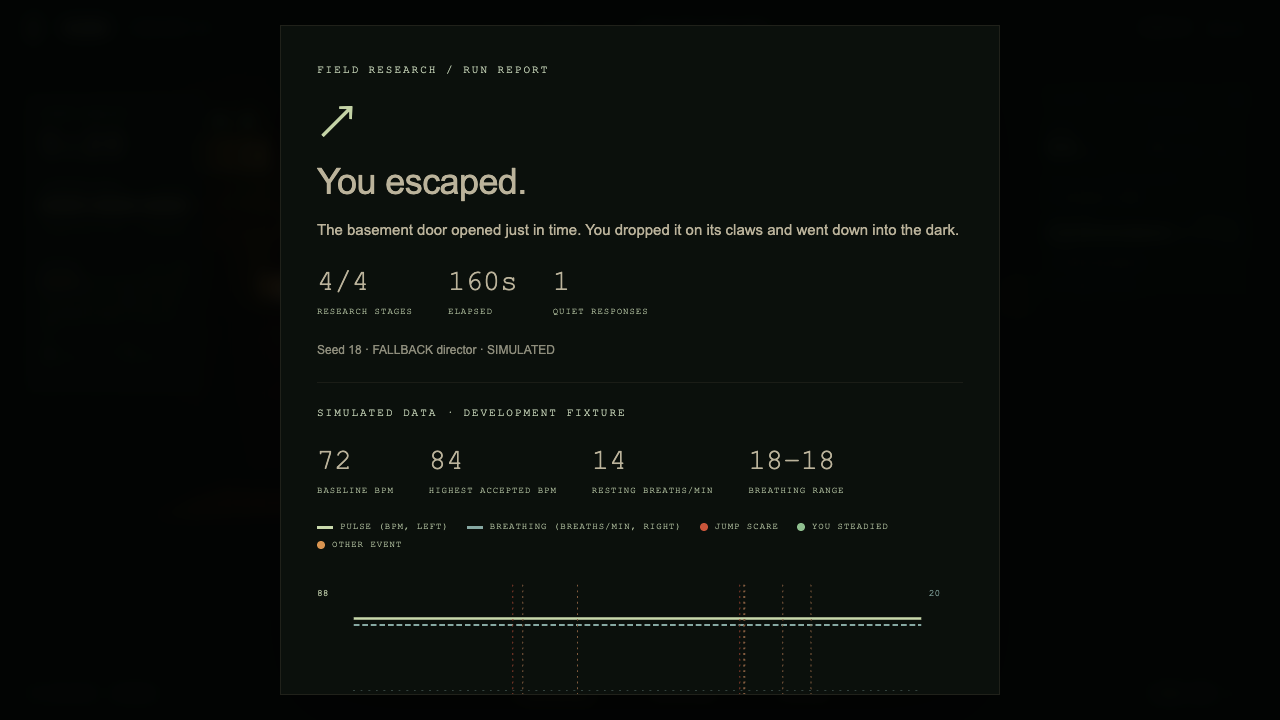
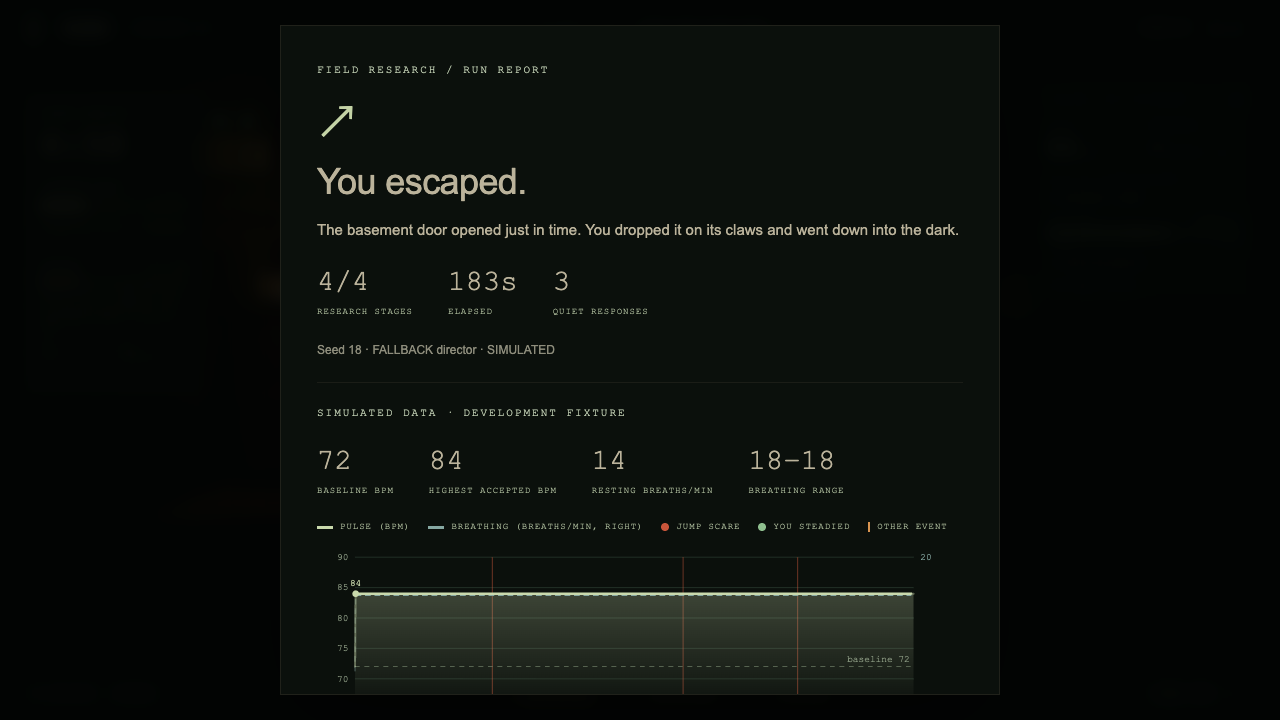
m

diff --git a/src/ui/PulseReport.tsx b/src/ui/PulseReport.tsx
@@ -1,23 +1,26 @@
 import { useState } from 'react';
 import type { PulseReport as Report } from '../report/analysis';
+import { continuousLine, measuredSegment, monotonePath, partialPath, timeTicks, valueAxis, type ChartPoint } from './pulseChart';
 const labels:Record<string,string>={SCARE:'jump scare',BLACKOUT:'blackout',MISTAKE:'machine error',CLOSE_ENCOUNTER:'close encounter',BREACH_WARNING:'breach warning',LURE_SUCCESS:'lure transmission',QUIET:'equipment isolated',POWER_RESTORED:'power restored',RECOVERY:'you steadied · it lost your trail'};
-const PULSE='#c9d9ac',BREATH='#86a8a2',SCARE='#c9553a',CALM='#8fbf8f',EVENT='#d99450',LEFT=38,RIGHT=636,TOP=34,BOTTOM=172;
-/** Draw a line that breaks at gaps, pauses and capture segments. */
-function trace<T extends {gameMs:number;breakBefore?:boolean}>(rows:T[],x:(t:number)=>number,y:(row:T)=>number){
- return rows.map((row,i)=>`${i===0||row.breakBefore?'M':'L'}${x(row.gameMs).toFixed(1)},${y(row).toFixed(1)}`).join(' ');
-}
+const PULSE='#c9d9ac',BREATH='#86a8a2',SCARE='#c9553a',CALM='#8fbf8f',EVENT='#d99450',GRID='#223127',INK='#8d9c84',LEFT=40,RIGHT=628,TOP=16,BOTTOM=176,LANE=196;
+/** Big moments get a line through the chart; everything else is a tick in the event lane. */
+const MAJOR=new Set(['SCARE','RECOVERY']);
 /** Why a run has no chart: the camera was off, or no accepted readings arrived. */
 export type EmptyReason='no-camera'|'no-readings';
 const EMPTY:Record<EmptyReason,string>={'no-camera':'The camera was off for this run, so there was nothing to chart. Enable it before you start to chart your pulse and breathing against the scares.','no-readings':'The camera was on, but no accepted readings arrived during play. Keep your face and upper chest in frame with steady light; readings pause while the camera cannot see you.'};
-export default function PulseReport({report,empty='no-camera'}:{report:Report;empty?:EmptyReason}){
+export default function PulseReport({report,empty='no-camera',durationMs}:{report:Report;empty?:EmptyReason;durationMs?:number}){
  const[focus,setFocus]=useState<string|null>(null);
  if(report.status==='unrecorded')return <section className="pulse-report"><div className="eyebrow">PULSE RECORDING</div><h3>Physiological statistics unrecorded.</h3><p className="small muted">{EMPTY[empty]} Your research results still count.</p></section>;
- const breathing=report.breathing;
- const min=Math.floor(Math.min(report.baselineBpm??70,...report.timeline.map(p=>p.bpm))-4),max=Math.ceil(Math.max(report.baselineBpm??70,...report.timeline.map(p=>p.bpm))+4);
- const bMin=breathing?Math.max(0,Math.floor(Math.min(breathing.restingRpm??breathing.lowestRpm,breathing.lowestRpm)-2)):0,bMax=breathing?Math.ceil(Math.max(breathing.restingRpm??breathing.highestRpm,breathing.highestRpm)+2):1;
- const end=Math.max(1000,...report.timeline.map(p=>p.gameMs),...(breathing?.timeline.map(p=>p.gameMs)??[]),...report.markers.map(e=>e.gameMs));
- const x=(t:number)=>LEFT+t/end*(RIGHT-LEFT),y=(b:number)=>BOTTOM-(b-min)/(max-min)*(BOTTOM-TOP),yb=(r:number)=>BOTTOM-(r-bMin)/Math.max(1,bMax-bMin)*(BOTTOM-TOP);
- const largest=report.largestIncrease;const names=largest?.associatedEventIds.map(id=>labels[report.markers.find(e=>e.id===id)?.type??'']??'event').filter((v,i,a)=>a.indexOf(v)===i);const selected=report.markers.find(e=>e.id===focus);
+ const breathing=report.breathing,largest=report.largestIncrease;
+ // One continuous line per signal over the whole run (see pulseChart.ts): bright where readings are measured, dim where gaps are bridged.
+ const end=Math.max(1000,durationMs??0,...report.timeline.map(p=>p.gameMs),...(breathing?.timeline.map(p=>p.gameMs)??[]),...report.markers.map(e=>e.gameMs));
+ const pulse=continuousLine(report.timeline.map(p=>({gameMs:p.gameMs,value:p.bpm})),end,report.baselineBpm);
+ const breath=breathing?continuousLine(breathing.timeline.map(p=>({gameMs:p.gameMs,value:p.rpm})),end,breathing.restingRpm):[];
+ const axis=valueAxis([...pulse.map(p=>p.v),...(report.baselineBpm===null?[]:[report.baselineBpm])],3,5),bAxis=breath.length?valueAxis(breath.map(p=>p.v),1,2):null;
+ const x=(t:number)=>LEFT+t/end*(RIGHT-LEFT),y=(b:number)=>BOTTOM-(b-axis.min)/(axis.max-axis.min)*(BOTTOM-TOP),yb=(r:number)=>bAxis?BOTTOM-(r-bAxis.min)/(bAxis.max-bAxis.min)*(BOTTOM-TOP):BOTTOM;
+ const screen=(points:ChartPoint[],to:(v:number)=>number)=>points.map(p=>({x:x(p.t),y:to(p.v)}));
+ const pulsePts=screen(pulse,y),breathPts=screen(breath,yb),peak=report.timeline.reduce<typeof report.timeline[number]|null>((best,p)=>!best||p.bpm>best.bpm?p:best,null);
+ const names=largest?.associatedEventIds.map(id=>labels[report.markers.find(e=>e.id===id)?.type??'']??'event').filter((v,i,a)=>a.indexOf(v)===i);const selected=report.markers.find(e=>e.id===focus);
  const steadied=report.markers.filter(e=>e.type==='RECOVERY').length,scares=report.markers.filter(e=>e.type==='SCARE').length;
  return <section className="pulse-report">
   <div className="eyebrow">{report.status==='simulated'?'SIMULATED DATA · DEVELOPMENT FIXTURE':'RECORDED LIVE · ACCEPTED SAMPLES'}</div>
@@ -27,25 +30,29 @@ export default function PulseReport({report,empty='no-camera'}:{report:Report;em
    {breathing&&<div><strong>{breathing.restingRpm?.toFixed(0)??'—'}</strong><span>RESTING BREATHS/MIN</span></div>}
    {breathing&&<div><strong>{Math.round(breathing.lowestRpm)}–{Math.round(breathing.highestRpm)}</strong><span>BREATHING RANGE</span></div>}
   </div>
-  <div className="report-legend small"><span><i style={{background:PULSE}}/>Pulse (BPM, left)</span>{breathing&&<span><i style={{background:BREATH}}/>Breathing (breaths/min, right)</span>}<span><i className="marker" style={{background:SCARE}}/>Jump scare</span><span><i className="marker" style={{background:CALM}}/>You steadied</span><span><i className="marker"/>Other event</span></div>
-  <svg className="pulse-chart" viewBox="0 0 680 205" role="img" aria-label={`Recorded pulse${breathing?' and breathing rate':''} over active game time with event markers. Lines break at missing readings and pauses.`}>
-   <line x1={LEFT} y1={BOTTOM} x2={RIGHT} y2={BOTTOM} stroke="#445e4c"/>
-   <text x="0" y={TOP+4}>{max}</text><text x="0" y={BOTTOM+2}>{min}</text>
-   {breathing&&<><text x={RIGHT+8} y={TOP+4} fill={BREATH}>{bMax}</text><text x={RIGHT+8} y={BOTTOM+2} fill={BREATH}>{bMin}</text></>}
-   {report.baselineBpm!==null&&<line x1={LEFT} x2={RIGHT} y1={y(report.baselineBpm)} y2={y(report.baselineBpm)} stroke="#73876b" strokeDasharray="4 5"/>}
-   {breathing?.restingRpm!=null&&<line x1={LEFT} x2={RIGHT} y1={yb(breathing.restingRpm)} y2={yb(breathing.restingRpm)} stroke={BREATH} strokeOpacity=".45" strokeDasharray="2 6"/>}
-   {breathing&&<path d={trace(breathing.timeline,x,row=>yb(row.rpm))} fill="none" stroke={BREATH} strokeWidth="2" strokeDasharray="6 3"/>}
-   <path d={trace(report.timeline,x,row=>y(row.bpm))} fill="none" stroke={PULSE} strokeWidth="2.5"/>
-   {report.markers.map(e=>{const recovery=e.type==='RECOVERY';return <g key={e.id} tabIndex={0} role="button" aria-label={`${labels[e.type]??e.type} at ${Math.round(e.gameMs/1000)} seconds`} onFocus={()=>setFocus(e.id)} onMouseEnter={()=>setFocus(e.id)} onClick={()=>setFocus(e.id)}>
-    <line x1={x(e.gameMs)} x2={x(e.gameMs)} y1="26" y2={BOTTOM} stroke={focus===e.id?'#f0b478':recovery?'#5f8a63':e.type==='SCARE'?'#8a3b2a':'#825b3e'} strokeDasharray="2 4"/>
-    <circle cx={x(e.gameMs)} cy="181" r={e.type==='SCARE'?6:5} fill={recovery?CALM:e.type==='SCARE'?SCARE:EVENT}/></g>})}
-   <text x={LEFT} y="202">0s</text><text x={RIGHT-30} y="202">{Math.round(end/1000)}s</text>
+  <div className="report-legend small"><span><i style={{background:PULSE}}/>Pulse (BPM)</span>{breathing&&<span><i className="dashed" style={{background:BREATH}}/>Breathing (breaths/min, right)</span>}<span><i className="marker" style={{background:SCARE}}/>Jump scare</span><span><i className="marker" style={{background:CALM}}/>You steadied</span><span><i className="tick"/>Other event</span></div>
+  <svg className="pulse-chart" viewBox="0 0 680 236" role="img" aria-label={`Pulse${breathing?' and breathing rate':''} over the whole run with event markers. Bright stretches are measured readings; dim stretches bridge gaps between them.`}>
+   <defs><linearGradient id="pulse-fill" x1="0" y1="0" x2="0" y2="1"><stop offset="0" stopColor={PULSE} stopOpacity=".26"/><stop offset="1" stopColor={PULSE} stopOpacity="0"/></linearGradient></defs>
+   {axis.ticks.map(v=><g key={v}><line x1={LEFT} x2={RIGHT} y1={y(v)} y2={y(v)} stroke={GRID}/><text x={LEFT-7} y={y(v)+3} textAnchor="end" fill={INK}>{v}</text></g>)}
+   {bAxis&&[bAxis.min,bAxis.max].map(v=><text key={v} x={RIGHT+7} y={yb(v)+3} fill={BREATH}>{v}</text>)}
+   {timeTicks(end).map(tick=><g key={tick.t}><line x1={x(tick.t)} x2={x(tick.t)} y1={BOTTOM} y2={BOTTOM+4} stroke={INK}/><text x={x(tick.t)} y="230" textAnchor="middle" fill={INK}>{tick.label}</text></g>)}
+   {report.markers.filter(e=>MAJOR.has(e.type)).map(e=><line key={`line-${e.id}`} x1={x(e.gameMs)} x2={x(e.gameMs)} y1={TOP} y2={LANE} stroke={focus===e.id?'#f0b478':e.type==='SCARE'?SCARE:CALM} strokeOpacity={focus===e.id?.9:.45} strokeWidth="1.2"/>)}
+   {pulsePts.length>1&&<path d={`${monotonePath(pulsePts)} L${x(end).toFixed(1)},${BOTTOM} L${x(0).toFixed(1)},${BOTTOM} Z`} fill="url(#pulse-fill)"/>}
+   {report.baselineBpm!==null&&<g><line x1={LEFT} x2={RIGHT} y1={y(report.baselineBpm)} y2={y(report.baselineBpm)} stroke="#8a9c7f" strokeOpacity=".7" strokeDasharray="5 5"/><text x={RIGHT-4} y={y(report.baselineBpm)-5} textAnchor="end" fill={INK}>baseline {Math.round(report.baselineBpm)}</text></g>}
+   {breathPts.length>1&&<><path d={monotonePath(breathPts)} fill="none" stroke={BREATH} strokeOpacity=".35" strokeWidth="1.6" strokeDasharray="6 4"/><path d={partialPath(breathPts,i=>measuredSegment(breath,i))} fill="none" stroke={BREATH} strokeWidth="1.8" strokeDasharray="6 4"/></>}
+   {pulsePts.length>1&&<><path d={monotonePath(pulsePts)} fill="none" stroke={PULSE} strokeOpacity=".42" strokeWidth="2.2" strokeLinecap="round"/><path d={partialPath(pulsePts,i=>measuredSegment(pulse,i))} fill="none" stroke={PULSE} strokeWidth="2.6" strokeLinecap="round" strokeLinejoin="round"/></>}
+   {peak&&<g><circle cx={x(peak.gameMs)} cy={y(peak.bpm)} r="3.5" fill={PULSE}/><text x={x(peak.gameMs)} y={y(peak.bpm)-8} textAnchor="middle" fill={PULSE}>{Math.round(peak.bpm)}</text></g>}
+   <line x1={LEFT} x2={RIGHT} y1={BOTTOM} y2={BOTTOM} stroke="#445e4c"/>
+   <text x={LEFT-7} y={LANE+3} textAnchor="end" fill={INK} fontSize="8">EVENTS</text>
+   {report.markers.map(e=>{const major=MAJOR.has(e.type),color=e.type==='SCARE'?SCARE:e.type==='RECOVERY'?CALM:EVENT,on=focus===e.id;return <g key={e.id} tabIndex={0} role="button" aria-label={`${labels[e.type]??e.type} at ${Math.round(e.gameMs/1000)} seconds`} onFocus={()=>setFocus(e.id)} onMouseEnter={()=>setFocus(e.id)} onClick={()=>setFocus(e.id)}>
+    <rect x={x(e.gameMs)-6} y={LANE-10} width="12" height="20" fill="transparent"/>
+    {major?<circle cx={x(e.gameMs)} cy={LANE} r={on?6.5:5} fill={color} stroke={on?'#f0b478':'none'} strokeWidth="1.5"/>:<rect x={x(e.gameMs)-1} y={LANE-5} width="2" height="10" fill={on?'#f0b478':color} fillOpacity=".85"/>}</g>})}
   </svg>
   <p className="small">{selected?`${labels[selected.type]??selected.type} · ${Math.round(selected.gameMs/1000)}s`:'Focus an event marker to inspect it.'}</p>
   <p>{largest?`The largest recorded increase (${largest.deltaBpm.toFixed(1)} BPM) followed ${largest.clustered?'an event cluster including ':'the '}${names?.join(' and ')}.`:'No supported increase could be associated with an event.'}</p>
   {report.recovery.filter(r=>r.observed).slice(0,3).map(r=><p className="small" key={r.eventId}>Return toward baseline observed {r.elapsedSeconds}s after {labels[report.markers.find(e=>e.id===r.eventId)?.type??'']??'the event'}.</p>)}
   {(scares>0||steadied>0)&&<p className="small">{scares} jump scare{scares===1?'':'s'} marked{steadied>0?` · you steadied ${steadied} time${steadied===1?'':'s'} and it lost your trail`:''}.</p>}
   {breathing&&<p className="small">Breathing: {Math.round(breathing.lowestRpm)}–{Math.round(breathing.highestRpm)} breaths/min across accepted readings{breathing.restingRpm!==null?`, against a resting ${Math.round(breathing.restingRpm)}`:''}. Breathing uses a 30-second average, so it lags events more than pulse.</p>}
-  <p className="small muted">Timing association only. Measurement delay, movement, lighting and other events may contribute. Gaps and pauses are excluded; this is not a fear score or a medical measurement.</p>
+  <p className="small muted">Timing association only. Measurement delay, movement, lighting and other events may contribute. Bright stretches are measured readings; dim stretches only bridge the gaps between them and never enter the numbers. This is not a fear score or a medical measurement.</p>
  </section>;
 }

diff --git a/src/ui/App.tsx b/src/ui/App.tsx
@@ -226,7 +226,7 @@ function GameApp(){
   {screen==='tutorial'&&!game.paused&&<Tutorial inspection={inspection} step={tutorialStep} onSkip={()=>startRun(false)} onContinue={()=>{if(canRestore(authority.current))setPracticeStep(3)}}/>}
   {judge&&<aside className="judge-panel"><button className="text-button close" onClick={()=>setJudge(false)}>Close ×</button><div className="eyebrow">JUDGE TRACE</div><h2>Every decision leaves a trace.</h2><p className="small muted">Game events and coarse signal status only. Pulse recordings and camera frames stay out of this feed.</p><div className="provider-table">{Object.entries({...provider,presage:judgeSensorLabel,spacetime:traceStatus}).map(([k,v])=><div key={k}><span>{k.toUpperCase()}</span><b>{v}</b></div>)}</div><p className="small">Tactic: {game.director.lastTactic} → {game.director.lastTarget}<br/>Outcome: {game.director.lastOutcome}<br/>Evidence: {game.director.lastEvidenceIds.join(', ')||'none'}</p><label className="check"><input type="checkbox" checked={traceConsent} onChange={e=>toggleTrace(e.target.checked)}/> Consent to sanitized trace sharing</label><div className="button-row"><button disabled={!traceConsent} onClick={()=>{const url=trace.current?.judgeUrl();if(url)window.open(url,'_blank','noopener')}}>Open second screen ↗</button><button onClick={()=>void deleteRun()}>Delete session & report</button></div><p className="small">{sensor.hint}<br/>Quality: {sensor.quality} · sample age: {sensor.ageMs===null?'unavailable':Math.round(sensor.ageMs)+'ms'} · baseline: {Math.floor(sensor.acceptedSeconds)}/30 usable seconds</p>{sensor.source==='simulated'&&<label className="check"><input type="checkbox" onChange={e=>sensing.current?.setSimulatedElevated(e.target.checked)}/> Simulate sustained +12 BPM (development)</label>}<button className="text-button" onClick={()=>{changePrefs({...prefsRef.current,sensing:'manual'});sensorMode('manual')}}>Stop capture → neutral play</button><div className="trace-list">{game.events.slice(-25).reverse().map(e=><div key={e.id}><time>{e.time.toFixed(1)}s</time><b>{e.id} / {e.type}</b><span>{e.detail}</span></div>)}</div><p className="small muted">Models {view.current?.diagnostics.loadedAssets.length??0}/10 · Audio {audio.current?.diagnostics.loadedEffects.length??0}/27<br/>Speech playback: {audio.current?.diagnostics.speech??'idle'} · {audio.current?.diagnostics.status??'idle'}</p><output className="small muted" data-testid="audio-diagnostics">{JSON.stringify(audio.current?.diagnostics??{})}</output></aside>}
   {game.paused&&!cameraOpen&&game.status==='playing'&&<div className="modal-shade"><section className="modal" role="dialog" aria-modal="true" aria-label="Game paused"><div className="eyebrow">GAME TIME FROZEN / CAPTURE STOPPED</div><h2>A quiet moment.</h2><div className="controls-grid"><span><kbd>1–4</kbd> Task input</span><span><kbd>R</kbd> Replay sequence</span><span><kbd>T</kbd> Transmit lure</span><span><kbd>Q</kbd> Quiet equipment</span><span><kbd>F</kbd> Hold to restore</span><span><kbd>B</kbd> Hold to breathe</span><span><kbd>L</kbd> Listen to the rack</span><span><kbd>J</kbd> Judge trace</span></div><p className="small muted">Click equipment to use it. E opens the item you are facing; Space looks away. Q only works before it commits at the wall. Listen for its footsteps getting louder.</p><label className="volume-row">Master volume<input aria-label="Master volume" type="range" min="0" max=".7" step=".05" value={volume} onChange={e=>setVolume(Number(e.target.value))}/></label><label className="check"><input type="checkbox" checked={prefs.reducedMotion} onChange={e=>changePrefs({...prefsRef.current,reducedMotion:e.target.checked})}/> Reduced motion</label><label className="check"><input type="checkbox" checked={prefs.softScares} onChange={e=>changePrefs({...prefsRef.current,softScares:e.target.checked})}/> Softer scares & impact sounds</label><button className="primary" onClick={()=>pause(false)}>Resume protocol →</button><div className="button-row"><button onClick={()=>{void deleteRun();startRun(false)}}>Restart seed</button><button onClick={()=>void menu()}>Return to shelter setup</button></div></section></div>}
-  {screen==='play'&&resultReady&&game.status!=='playing'&&<div className={`modal-shade result-shade ${game.status==='lost'?'lost':''}`}><section className="modal results" role="dialog" aria-label="Run results"><div className="eyebrow">FIELD RESEARCH / RUN REPORT</div><span className="result-symbol">{game.status==='won'?'↗':'⊘'}</span><h2>{game.status==='won'?'You escaped.':'The shelter fell silent.'}</h2><p>{game.status==='won'?'The basement door opened just in time. You dropped it on its claws and went down into the dark.':game.lossReason}</p><div className="result-stats"><div><strong>{game.tasks.completedStages.length}/4</strong><span>RESEARCH STAGES</span></div><div><strong>{Math.round(game.time)}s</strong><span>ELAPSED</span></div><div><strong>{game.events.filter(e=>e.type==='QUIET_ENTERED').length}</strong><span>QUIET RESPONSES</span></div></div><p className="small muted">Seed {game.seed} · {game.director.source} director · {prefs.sensing==='manual'?'Neutral physiology':prefs.sensing.toUpperCase()}</p><PulseReport report={report} empty={reportEmpty}/><button className="primary" onClick={()=>{void deleteRun();changePrefs({...prefsRef.current,seed:prefs.seed+1});startRun(false)}}>Begin another protocol →</button><div className="button-row"><button onClick={()=>{void deleteRun();startRun(false)}}>Replay this seed</button><button onClick={()=>void deleteRun()}>{deleted?'Local report deleted':'Delete report & shared session'}</button><button onClick={()=>void menu()}>Return to setup</button></div></section></div>}
+  {screen==='play'&&resultReady&&game.status!=='playing'&&<div className={`modal-shade result-shade ${game.status==='lost'?'lost':''}`}><section className="modal results" role="dialog" aria-label="Run results"><div className="eyebrow">FIELD RESEARCH / RUN REPORT</div><span className="result-symbol">{game.status==='won'?'↗':'⊘'}</span><h2>{game.status==='won'?'You escaped.':'The shelter fell silent.'}</h2><p>{game.status==='won'?'The basement door opened just in time. You dropped it on its claws and went down into the dark.':game.lossReason}</p><div className="result-stats"><div><strong>{game.tasks.completedStages.length}/4</strong><span>RESEARCH STAGES</span></div><div><strong>{Math.round(game.time)}s</strong><span>ELAPSED</span></div><div><strong>{game.events.filter(e=>e.type==='QUIET_ENTERED').length}</strong><span>QUIET RESPONSES</span></div></div><p className="small muted">Seed {game.seed} · {game.director.source} director · {prefs.sensing==='manual'?'Neutral physiology':prefs.sensing.toUpperCase()}</p><PulseReport report={report} empty={reportEmpty} durationMs={game.time*1000}/><button className="primary" onClick={()=>{void deleteRun();changePrefs({...prefsRef.current,seed:prefs.seed+1});startRun(false)}}>Begin another protocol →</button><div className="button-row"><button onClick={()=>{void deleteRun();startRun(false)}}>Replay this seed</button><button onClick={()=>void deleteRun()}>{deleted?'Local report deleted':'Delete report & shared session'}</button><button onClick={()=>void menu()}>Return to setup</button></div></section></div>}
   {screen==='play'&&ending==='film'&&<OpeningFilm video={ENDING.video} captionOf={endingCaptionAt} label="Ending cutscene" className="ending-film" muted={muted} volume={volume} onDone={endEnding} onFail={()=>setEnding('text')}/>}
   {screen==='play'&&ending==='text'&&<main className="intro ending-cards" aria-label="Ending"><div className="eyebrow">FIELD RECORDING / BASEMENT ACCESS</div><p key={outroStep}>{OUTRO[outroStep]}</p><button className="text-button" onClick={endEnding}>Skip cutscene →</button></main>}
  </>}{cameraOpen&&<div className="modal-shade"><section className="modal camera-modal" role="dialog" aria-modal="true" aria-label="Camera settings"><button className="text-button" onClick={hideCamera}>Back to game →</button><CameraPanel sensor={sensor} stream={cameraStream} desktop={desktop} deviceId={cameraDevice} onDevice={selectCamera} onReadyStart={hideCamera} readyLabel="Return to game →" onStart={()=>{changePrefs({...prefsRef.current,sensing:'presage'});sensorMode('presage')}} onStop={()=>{changePrefs({...prefsRef.current,sensing:'manual'});sensorMode('manual')}}/></section></div>}</>;

diff --git a/src/ui/pulseChart.ts b/src/ui/pulseChart.ts
@@ -1,0 +1,72 @@
+/** Display geometry for the run report's chart. Presage readings arrive in bursts with gaps, so the
+ * chart draws one continuous line over the whole run: measured bins as they are, gaps bridged,
+ * the line starting at the resting baseline (or the first reading) and holding the last reading to
+ * the end. Display only: the report's numbers and comparisons still come from measured bins. */
+export type ChartPoint = { t: number; v: number; measured: boolean };
+
+/** Gaps longer than this between readings are drawn as bridged rather than measured. */
+export const BRIDGE_MS = 3000;
+
+export function continuousLine(rows: { gameMs: number; value: number }[], endMs: number, lead: number | null): ChartPoint[] {
+  const sorted = rows.filter(r => Number.isFinite(r.gameMs) && Number.isFinite(r.value)).sort((a, b) => a.gameMs - b.gameMs);
+  if (!sorted.length) return [];
+  const measured = sorted.map(r => ({ t: r.gameMs, v: r.value, measured: true }));
+  const first = measured[0], last = measured.at(-1)!, out: ChartPoint[] = [];
+  if (first.t > 0) out.push({ t: 0, v: lead ?? first.v, measured: false });
+  out.push(...measured);
+  if (last.t < endMs) out.push({ t: endMs, v: last.v, measured: false });
+  return out;
+}
+
+/** Whether the segment from point i to i + 1 joins two readings close enough to count as measured. */
+export function measuredSegment(points: ChartPoint[], i: number): boolean {
+  const a = points[i], b = points[i + 1];
+  return !!a && !!b && a.measured && b.measured && b.t - a.t <= BRIDGE_MS;
+}
+
+/** Smooth cubic segments through screen points that never overshoot them (monotone cubic in x).
+ * Entry i runs from point i to point i + 1, so a path can be drawn whole or in pieces that line up. */
+export function curveSegments(points: { x: number; y: number }[]): string[] {
+  if (points.length < 2) return [];
+  const n = points.length, slopes: number[] = [], tangents: number[] = [];
+  for (let i = 0; i < n - 1; i++) { const dx = points[i + 1].x - points[i].x; slopes.push(dx > 0 ? (points[i + 1].y - points[i].y) / dx : 0); }
+  tangents.push(slopes[0]);
+  for (let i = 1; i < n - 1; i++) tangents.push(slopes[i - 1] * slopes[i] <= 0 ? 0 : (slopes[i - 1] + slopes[i]) / 2);
+  tangents.push(slopes[n - 2]);
+  for (let i = 0; i < n - 1; i++) { // Fritsch–Carlson: clamp tangents so each segment stays monotone
+    if (slopes[i] === 0) { tangents[i] = tangents[i + 1] = 0; continue; }
+    const a = tangents[i] / slopes[i], b = tangents[i + 1] / slopes[i], h = Math.hypot(a, b);
+    if (h > 3) { tangents[i] = 3 * a / h * slopes[i]; tangents[i + 1] = 3 * b / h * slopes[i]; }
+  }
+  return points.slice(0, -1).map((p, i) => {
+    const q = points[i + 1], third = (q.x - p.x) / 3;
+    return `C${(p.x + third).toFixed(1)},${(p.y + tangents[i] * third).toFixed(1)} ${(q.x - third).toFixed(1)},${(q.y - tangents[i + 1] * third).toFixed(1)} ${q.x.toFixed(1)},${q.y.toFixed(1)}`;
+  });
+}
+const move = (p: { x: number; y: number }) => `M${p.x.toFixed(1)},${p.y.toFixed(1)}`;
+/** The whole curve as one path. */
+export function monotonePath(points: { x: number; y: number }[]): string {
+  return points.length ? [move(points[0]), ...curveSegments(points)].join(' ') : '';
+}
+/** Only the segments `keep(i)` selects, as one path of separate pieces on the same curve. */
+export function partialPath(points: { x: number; y: number }[], keep: (i: number) => boolean): string {
+  const segments = curveSegments(points), out: string[] = [];
+  segments.forEach((segment, i) => { if (!keep(i)) return; if (i === 0 || !keep(i - 1)) out.push(move(points[i])); out.push(segment); });
+  return out.join(' ');
+}
+
+/** A tidy value range and gridline steps around the data. */
+export function valueAxis(values: number[], pad: number, step: number): { min: number; max: number; ticks: number[] } {
+  const lo = Math.min(...values) - pad, hi = Math.max(...values) + pad;
+  const min = Math.floor(lo / step) * step, max = Math.max(min + step, Math.ceil(hi / step) * step);
+  const ticks: number[] = [];
+  for (let v = min; v <= max + 1e-9; v += step) ticks.push(v);
+  return { min, max, ticks };
+}
+
+/** Time ticks (ms) at a readable interval for a run of `endMs`, with m:ss labels. */
+export function timeTicks(endMs: number): { t: number; label: string }[] {
+  const step = endMs <= 60_000 ? 10_000 : endMs <= 180_000 ? 30_000 : 60_000, ticks: { t: number; label: string }[] = [];
+  for (let t = 0; t <= endMs + 1; t += step) ticks.push({ t, label: `${Math.floor(t / 60_000)}:${String(Math.round(t / 1000) % 60).padStart(2, '0')}` });
+  return ticks;
+}

diff --git a/tests/fixtures/report.tsx b/tests/fixtures/report.tsx
@@ -1,0 +1,25 @@
+import { createRoot } from 'react-dom/client';
+import PulseReport from '../../src/ui/PulseReport';
+import { buildPulseReport, type BreathSample, type PulseEvent, type PulseSample } from '../../src/report/analysis';
+import '../../src/ui/style.css';
+
+// Test-only entry point: the real run report from synthetic samples (no camera, no game). Two runs:
+// one like a real short loss (readings only for a short stretch), one longer with patchy coverage.
+const sample = (s: number, bpm: number): PulseSample => ({ capturedAtMs: 10_000 + s * 1000, gameMs: s * 1000, segment: 1, bpm, source: 'presage', accepted: true });
+const breath = (s: number, rpm: number): BreathSample => ({ capturedAtMs: 10_000 + s * 1000, gameMs: s * 1000, segment: 1, rpm, source: 'presage', accepted: true });
+const event = (id: string, type: string, s: number): PulseEvent => ({ id, type, capturedAtMs: 10_000 + s * 1000, gameMs: s * 1000, segment: 1 });
+const short = buildPulseReport({ recordingConsent: true, source: 'presage', baselineBpm: 73,
+  samples: [81, 80, 79, 78.5, 78, 77, 76, 75, 74, 73].map((bpm, i) => sample(18 + i, bpm)),
+  events: [event('a', 'MISTAKE', 6), event('b', 'MISTAKE', 6.6), event('c', 'CLOSE_ENCOUNTER', 7.1), event('d', 'MISTAKE', 7.7), event('e', 'MISTAKE', 8.6), event('f', 'QUIET', 30), event('g', 'SCARE', 42), event('h', 'SCARE', 69.5)] });
+const pulses: PulseSample[] = [], breaths: BreathSample[] = [];
+for (let s = 4; s < 190; s++) {
+  if ((s > 40 && s < 58) || (s > 120 && s < 131) || (s % 9 === 0)) continue; // dropouts like a real capture
+  pulses.push(sample(s, 72 + 6 * Math.sin(s / 17) + (s > 92 && s < 112 ? 11 * Math.exp(-(s - 95) / 8) : 0)));
+  if (s > 30 && s % 2 === 0) breaths.push(breath(s, 14 + 2 * Math.sin(s / 23) + (s > 92 && s < 110 ? 4 : 0)));
+}
+const long = buildPulseReport({ recordingConsent: true, source: 'presage', baselineBpm: 72, restingBreathingRpm: 14, samples: pulses, breathingSamples: breaths,
+  events: [event('q1', 'QUIET', 25), event('m1', 'MISTAKE', 61), event('m2', 'MISTAKE', 63), event('s1', 'SCARE', 94), event('r1', 'RECOVERY', 140), event('c1', 'CLOSE_ENCOUNTER', 150), event('l1', 'LURE_SUCCESS', 170)] });
+createRoot(document.getElementById('fixture-root')!).render(<div style={{ display: 'grid', gap: 20, padding: 20, background: '#0b120d', minHeight: '100vh' }}>
+  <section className="modal results" style={{ width: 'min(760px,100%)', maxHeight: 'none' }} data-testid="short"><PulseReport report={short} durationMs={70_000}/></section>
+  <section className="modal results" style={{ width: 'min(760px,100%)', maxHeight: 'none' }} data-testid="long"><PulseReport report={long} durationMs={196_000}/></section>
+</div>);

diff --git a/tests/game.test.ts b/tests/game.test.ts
@@ -140,6 +140,21 @@ test('early F or a direct restore call cannot bypass the isolation restore windo
   state = dispatch(state, { type: 'restore', held: true }); state = step(state, 1.1); assert.equal(state.equipment, 'on');
 });
 
+test('repeated mistakes keep raising exposure until it reaches 100', () => {
+  let state = firstFault(createGame(4)), last = state.danger;
+  for (let i = 0; i < 40 && state.danger < 100; i++) {
+    const wrong = [1, 2, 3, 4].find(value => !state.tasks.faults.active.includes(value - 1))!;
+    state = dispatch(state, { type: 'input', value: wrong }); state = step(state, .3);
+    if (i < 12) assert.ok(state.danger > last, `mistake ${i + 1} raised exposure (${last} → ${state.danger})`);
+    last = state.danger;
+  }
+  assert.equal(state.danger, 100);
+  // Correct work and the machinery hum stop at the work cap but never pull mistake noise back down to it.
+  const loud = state.pressure;
+  state = dispatch(state, { type: 'input', value: state.tasks.faults.active[0] + 1 });
+  assert.ok(state.pressure >= loud && state.pressure > config.danger.pressureMaximum);
+});
+
 test('danger uses bounded accepted coarse physiology and work noise, never raw pulse', () => {
   const base = createGame(4);
   const elevated = dispatch(base, { type: 'sensor', source: 'presage', quality: 'accepted', trend: 'ELEVATED' });
@@ -148,7 +163,7 @@ test('danger uses bounded accepted coarse physiology and work noise, never raw p
   assert.equal(dispatch(base, { type: 'sensor', source: 'manual', quality: 'accepted', trend: 'ELEVATED' }).danger, base.danger);
   let state = base;
   for (let i = 0; i < 20; i++) { const wrong = [1, 2, 3, 4].find(value => !state.tasks.faults.active.includes(value - 1))!; state = dispatch(state, { type: 'input', value: wrong }); state = step(state, .3); }
-  assert.ok(state.pressure <= config.danger.pressureMaximum && state.danger <= 100);
+  assert.ok(state.pressure > config.danger.pressureMaximum && state.pressure <= config.danger.mistakeMaximum && state.danger <= 100, 'mistakes push noise past the work cap, never past the mistake cap');
   let quietState = firstFault(createGame(4)); const before = quietState.pressure;
   quietState = dispatch(quietState, { type: 'input', value: quietState.tasks.faults.active[0] + 1 }); assert.equal(quietState.pressure, before + config.danger.workPressure, 'correct work is loud');
 });

diff --git a/tests/pulse-chart.test.ts b/tests/pulse-chart.test.ts
@@ -1,0 +1,32 @@
+import assert from 'node:assert/strict';
+import test from 'node:test';
+import { continuousLine, measuredSegment, monotonePath, partialPath, timeTicks, valueAxis } from '../src/ui/pulseChart';
+
+test('the pulse line runs from the start of the run to its end, bridging gaps', () => {
+  const line = continuousLine([{ gameMs: 18_000, value: 81 }, { gameMs: 19_000, value: 80 }, { gameMs: 40_000, value: 75 }], 70_000, 73);
+  assert.deepEqual(line.map(p => [p.t, p.v, p.measured]), [[0, 73, false], [18_000, 81, true], [19_000, 80, true], [40_000, 75, true], [70_000, 75, false]]);
+  assert.equal(measuredSegment(line, 0), false, 'lead-in from the baseline is bridged');
+  assert.equal(measuredSegment(line, 1), true, 'consecutive readings are measured');
+  assert.equal(measuredSegment(line, 2), false, 'a 21-second gap is bridged');
+  assert.equal(measuredSegment(line, 3), false, 'the hold to the end is bridged');
+  assert.deepEqual(continuousLine([{ gameMs: 5_000, value: 70 }], 10_000, null).map(p => p.v), [70, 70, 70], 'without a baseline the first reading leads');
+  assert.deepEqual(continuousLine([], 10_000, 72), []);
+});
+
+test('curves pass through every point without overshooting, and pieces lie on the whole curve', () => {
+  const points = [{ x: 0, y: 50 }, { x: 10, y: 10 }, { x: 20, y: 10 }, { x: 30, y: 60 }];
+  const whole = monotonePath(points);
+  assert.match(whole, /^M0\.0,50\.0 C/);
+  for (const p of points) assert.ok(whole.includes(`${p.x.toFixed(1)},${p.y.toFixed(1)}`));
+  const ys = [...whole.matchAll(/-?\d+\.\d,(-?\d+\.\d)/g)].map(m => Number(m[1]));
+  assert.ok(ys.every(y => y >= 10 - 1e-9 && y <= 60 + 1e-9), 'control points stay within the data range');
+  const piece = partialPath(points, i => i === 1);
+  assert.ok(whole.includes(piece.replace(/^M10\.0,10\.0 /, '')), 'the measured piece is a segment of the whole curve');
+});
+
+test('axes are tidy', () => {
+  assert.deepEqual(valueAxis([73, 81], 3, 5), { min: 70, max: 85, ticks: [70, 75, 80, 85] });
+  assert.deepEqual(timeTicks(45_000).map(t => t.label), ['0:00', '0:10', '0:20', '0:30', '0:40']);
+  assert.deepEqual(timeTicks(70_000).map(t => t.label), ['0:00', '0:30', '1:00']);
+  assert.deepEqual(timeTicks(196_000).map(t => t.label), ['0:00', '1:00', '2:00', '3:00']);
+});

diff --git a/src/game/tasks.ts b/src/game/tasks.ts
@@ -135,7 +135,8 @@ function sequenceFor(state: GameState): number[] {
 function workNoise(state: GameState): void {
   if (state.mode === 'tutorial') return;
   state.transients.push({ at: state.time, strength: config.tasks.workNoise.strength, duration: config.tasks.workNoise.decaySeconds });
-  state.pressure = Math.min(config.danger.pressureMaximum, state.pressure + config.danger.workPressure);
+  // Work tops out at the work cap but never lowers noise that mistakes pushed above it.
+  state.pressure = Math.max(state.pressure, Math.min(config.danger.pressureMaximum, state.pressure + config.danger.workPressure));
 }
 function tempoFor(state: GameState): number {
   return !state.fixedMemoryTempo && state.sensor.source !== 'manual' && state.sensor.quality === 'accepted' && state.sensor.trend === 'ELEVATED' ? config.tasks.memory.maximumTempoMultiplier : 1;
@@ -187,7 +188,7 @@ function mistake(state: GameState, kind: 'FAULT' | 'MEMORY' | 'WIRE' | 'ROUTING'
   if (!last || state.time - last.time >= .25) {
     state.transients.push({ at: state.time, strength: config.tasks.mistakeStrength, duration: config.tasks.mistakeDecaySeconds });
     emit(state, 'WRONG_INPUT', kind);
-    state.pressure = Math.min(config.danger.pressureMaximum, state.pressure + config.danger.mistakePressure);
+    state.pressure = Math.min(config.danger.mistakeMaximum, state.pressure + config.danger.mistakePressure);
     contextualTaunt(state, 'AFTER_MISTAKE');
   }
   state.notice = notice ?? (kind === 'FAULT' ? 'That box was quiet. Press a box marked FAULT.' : kind === 'WIRE' ? 'Wrong terminal. The relay sparked. Match each cable symbol to its socket.' : `Sequence mismatch. Repeat all ${state.tasks.memory.sequence.length} inputs. R replays for free.`);

diff --git a/src/game/config.ts b/src/game/config.ts
@@ -38,8 +38,10 @@ export const config = {
   lineWeights: [.07, .14, .23, .22, .19, .10, .05],
   /** Low exposure drifts it away; high exposure (loud work) rushes it toward the wall. */
   lineBias: { base: .28, dangerScale: 1.36, lostTrailSeconds: 8, lostTrailBias: .6, momentum: .06, providerMaximum: .15, providerDurationSeconds: 8, quietDangerScale: .2, lureDangerScale: .1, minimum: -.85, maximum: 1, finalLure: 1 },
-  /** Pressure is work noise: correct inputs and active faults raise it, quiet cools it. */
-  danger: { base: 10, timeMaximum: 25, pressureMaximum: 55, pressureDecayPerSecond: .6, quietCoolingMultiplier: 3, workPressure: 1.8, machineryPressurePerSecond: .8, mistakePressure: 6, stageRelief: 8, physiologyMaximum: 5, shutdownAdaptation: 2 },
+  /** Pressure is work noise: correct inputs and active faults raise it, quiet cools it. Work alone
+   * stops at pressureMaximum; mistakes keep piling on up to mistakeMaximum, so with the base a
+   * string of mistakes takes exposure all the way to 100. */
+  danger: { base: 10, timeMaximum: 25, pressureMaximum: 55, mistakeMaximum: 90, pressureDecayPerSecond: .6, quietCoolingMultiplier: 3, workPressure: 1.8, machineryPressurePerSecond: .8, mistakePressure: 6, stageRelief: 8, physiologyMaximum: 5, shutdownAdaptation: 2 },
   /** Isolation holds until the player restores it (hold F, from 4 s) or the 25-second cap. */
   shutdown: { charges: 3, stageRefill: 1, durationSeconds: 25, cooldownSeconds: 10, retreatBias: .55, listeningSeconds: 4, manualRestoreAfterSeconds: 4 },
   /** Seeded charges: one per period, at a seeded offset. Isolation and lures still override. */

diff --git a/src/game/creature.ts b/src/game/creature.ts
@@ -106,7 +106,7 @@ export function updateDanger(state: GameState, dt: number): void {
   // and it cools whenever the room is quiet, fastest while isolated.
   const cooling = config.danger.pressureDecayPerSecond * (state.equipment === 'quiet' ? config.danger.quietCoolingMultiplier : 1);
   const machinery = state.equipment === 'on' && state.mode !== 'tutorial' ? state.clues.machinery * config.danger.machineryPressurePerSecond : 0;
-  state.pressure = clamp(state.pressure + (machinery - cooling) * dt, 0, config.danger.pressureMaximum);
+  state.pressure = clamp(state.pressure + (machinery - cooling) * dt, 0, Math.max(config.danger.pressureMaximum, state.pressure));
   const part = dangerParts(state);
   state.danger = state.mode === 'tutorial' ? 0 : clamp(part.base + part.time + part.noise + part.pulse + part.isolation, 0, 100);
 }

diff --git a/tests/fixtures/report.html b/tests/fixtures/report.html
@@ -1,0 +1,16 @@
+<!doctype html>
+<html lang="en">
+  <head>
+    <meta charset="UTF-8" />
+    <meta name="viewport" content="width=device-width, initial-scale=1.0" />
+    <link rel="icon" href="data:," />
+    <title>TEST FIXTURE — run report chart</title>
+    <style>
+      .scene{position:fixed;inset:0;background:repeating-linear-gradient(90deg,#1a1d16 0 60px,#22261d 60px 120px)}.scene::after{content:'SCENE PLACEHOLDER';position:absolute;left:50%;top:50%;transform:translate(-50%,-50%);font:14px monospace;color:#7d8468}.fixture-actions{position:fixed;left:16px;bottom:16px;z-index:30;display:flex;flex-wrap:wrap;gap:8px}.fixture-actions button{font:11px monospace}
+    </style>
+  </head>
+  <body>
+    <div id="fixture-root"></div>
+    <script type="module" src="/tests/fixtures/report.tsx"></script>
+  </body>
+</html>

diff --git a/src/ui/style.css b/src/ui/style.css
@@ -20,3 +20,5 @@
 /* The ending plays over the HUD after a win; the run report (z 20) follows it. */
 .ending-film,.ending-cards{z-index:15}
 .pulse-numbers{flex-wrap:wrap;row-gap:16px}.report-legend{display:flex;flex-wrap:wrap;gap:8px 18px;margin:2px 0 10px;font:9px var(--mono);letter-spacing:1px;text-transform:uppercase;color:#adbc9c}.report-legend i{display:inline-block;width:16px;height:3px;margin-right:7px;vertical-align:middle}.report-legend i.marker{width:8px;height:8px;border-radius:50%;background:#d99450}
+.report-legend i.dashed{background-image:repeating-linear-gradient(90deg,transparent 0 5px,#0b120d 5px 8px)}.report-legend i.tick{width:2px;height:10px;background:#d99450}
+.pulse-chart g[role=button]:focus{outline:none}

diff --git a/notes/james.md b/notes/james.md
@@ -2,6 +2,10 @@
 
 What my agent did and why. Newest first, one or two lines each.
 
+- 2026-10-24: Exposure is no longer stuck near 65. Work noise was capped at 55 (base 10 + 55); now correct work and machinery still stop at 55, but mistakes keep adding up to 90, so repeated mistakes reach 100. Correct inputs and the hum no longer pull mistake noise back to 55. New test; the balance sweep is unchanged (28/23/13/0/5 of 30). Check passes (161).
+
+- 2026-10-24: Run report chart redesign (Lea's `PulseReport.tsx`, at the user's request). Pulse and breathing are continuous lines over the whole run, from `src/ui/pulseChart.ts`. They start at the baseline, bridge gaps and hold the last reading, drawn as monotone curves with a soft fill. Measured stretches are bright, bridged ones dim, and the numbers still use measured readings only. Real axes, a labelled baseline, a marked peak, and jump-scare/steadied lines with other events as lane ticks. App passes the run length. Fixture `tests/fixtures/report.html`. Check passes (160), seed-18 report run passes.
+
 - 2026-10-24: At the user's request, charting is automatic whenever the camera (or simulation) is on. The "Chart my pulse" checkboxes and the Operator "Record accepted pulse" option are removed; the camera prompt and Operator settings say the report charts it locally. A camera started mid-run records from then on. An empty report says camera off or no accepted readings. Check passes (157); loss and simulated-pulse chart browser runs pass.
 
 - 2026-10-24: Fixed the empty physiology report (touching Lea's `src/ui`). Recording needed the off-by-default "Record accepted pulse" box hidden in Operator settings, and a camera started mid-run never recorded. The camera prompt now shows "Chart my pulse and breathing", ticked by default. The camera panel (setup, prompt, in-game dialog) carries the same box. Starting the camera or ticking the box mid-run starts recording; unticking discards it. An empty report says why: charting off, camera off, or no accepted readings. Check passes (157). Loss and simulated-pulse (chart) browser runs pass.
